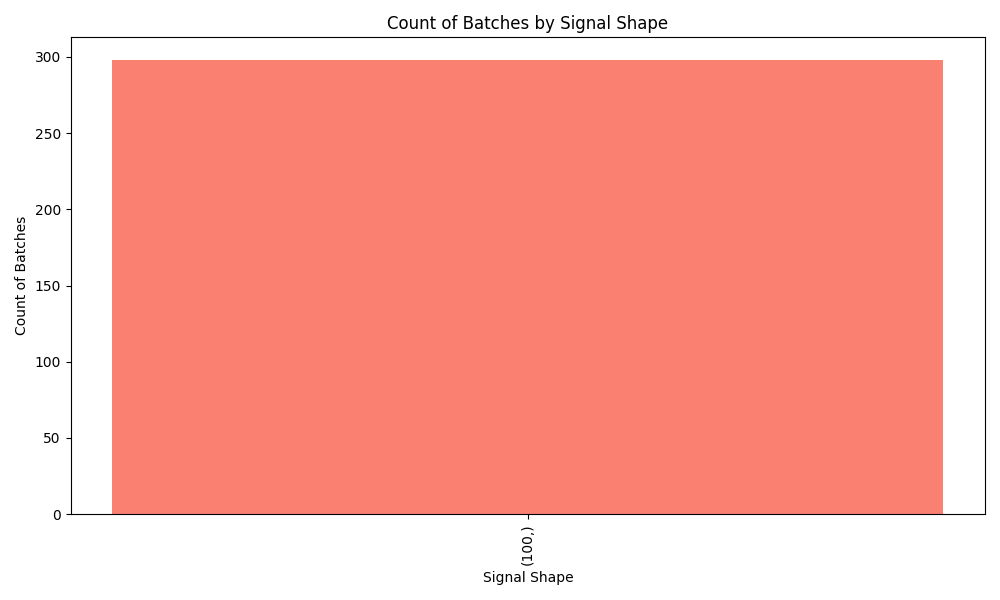
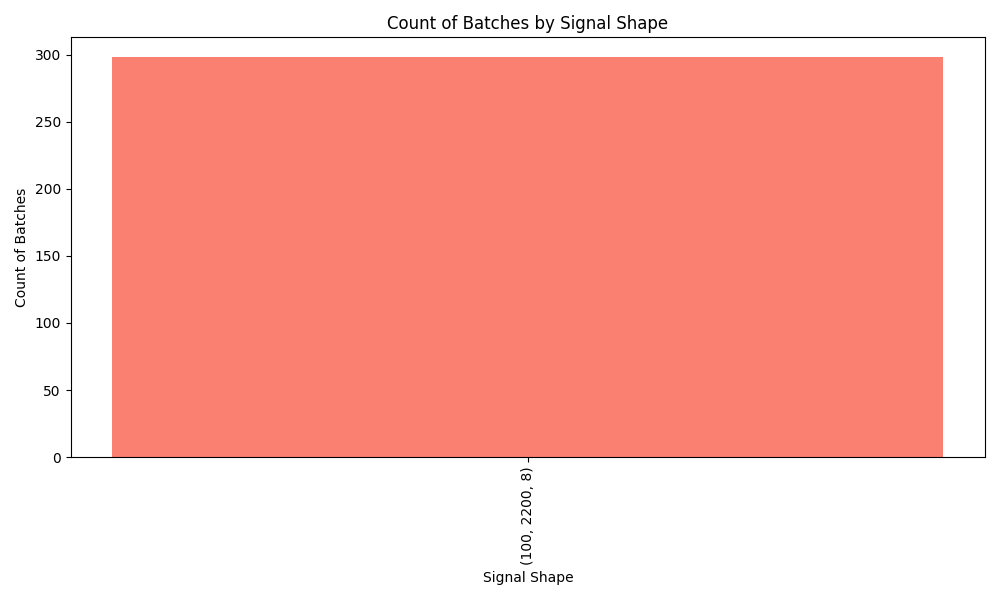
take on nn

diff --git a/main.py b/main.py
@@ -1,12 +1,74 @@
-from model import SimpleECGClassifier
-from torch import nn
-from torch import optim
+import torch
+from model import ECGCNN
+from torch import nn, optim
+from dataset import ECGDataset
+from torch.utils.data import DataLoader
 
-num_leads = 12
-signal_length = 5000
-num_classes = 5
-model = SimpleECGClassifier()
+device = "cuda" if torch.cuda.is_available() else "cpu"
+
+# Instance of model, loss function, and optimizer
+model = ECGCNN().to(device)
 
 loss_fn = nn.CrossEntropyLoss()
-optimizer = optim.Adam(params=model.parameters(),
-                       lr=0.001)
+optimizer = optim.Adam(params=model.parameters(), lr=0.001)
+
+# Create dataloader
+loaded_data = torch.load('dataset.pt', weights_only=False)
+
+dataset = ECGDataset(loaded_data['data'], loaded_data['labels'])  # shape -> data(298, 100, 2200, 8), labels(100)
+dataloader = DataLoader(dataset, batch_size=16, shuffle=True)
+dataloader_length = len(dataloader)
+
+# Training loop
+epochs = 300
+for epoch in range(epochs):
+    running_loss = 0.0  # To accumulate loss for each epoch
+    for i, (inputs, labels) in enumerate(dataloader):
+        # Move data to the correct device
+        inputs, labels = inputs.to(device), labels.to(device)
+
+        # Reshape inputs to [batch_size, 8, 2200]
+        inputs = inputs.permute(0, 3, 2, 1).reshape(-1, 8, 2200)
+
+        # Forward pass
+        outputs = model(inputs)
+        print(outputs.shape, labels.shape)
+        loss = loss_fn(outputs, labels.argmax(dim=1))  # Convert one-hot to class indices
+
+        # Backward pass and optimization
+        optimizer.zero_grad()
+        loss.backward()
+        optimizer.step()
+
+        # Accumulate loss
+        running_loss += loss.item()
+
+    # Print average loss for the epoch
+    epoch_loss = running_loss / dataloader_length
+    print(f'Epoch [{epoch+1}/{epochs}], Loss: {epoch_loss:.4f}')
+
+# Evaluation
+model.eval()  # Set the model to evaluation mode
+with torch.inference_mode():
+    correct = 0
+    total = 0
+    for inputs, labels in dataloader:
+        # Move data to the correct device
+        inputs, labels = inputs.to(device), labels.to(device)
+
+        # Reshape inputs to [batch_size, 8, 2200]
+        inputs = inputs.view(-1, 8, 2200)
+
+        # Forward pass
+        outputs = model(inputs)
+        _, predicted = torch.max(outputs.data, 1)
+
+        # Calculate accuracy
+        total += labels.size(0)
+        correct += (predicted == labels.argmax(dim=1)).sum().item()
+
+    print(f'Accuracy of the model on the test images: {100 * correct / total:.2f} %')
+
+# Save trained model
+torch.save(model.state_dict(), "ecg_classifier.pth")
+print("Training complete, model saved!")

diff --git a/processor.py b/processor.py
@@ -1,0 +1,60 @@
+import os
+import numpy as np
+import wfdb
+
+data_path = "./ecg_resources/data"
+label_path = "./ecg_resources/annotations.csv"
+output_path = "./data"
+
+min_length = 2200 # this is length of the shortest timestamp
+batch = []
+
+labels = np.loadtxt(label_path, delimiter=',', skiprows=1, dtype=str)
+trimed_labels = np.delete(labels, [0, 1, 2, 3, -1], axis=1) # keeps only these columns -> ['1dAVb' 'RBBB' 'LBBB' 'SB' 'AF' 'ST']
+casted_labels = trimed_labels.astype(np.float32)
+
+# labels preview
+# [[0. 0. 0. 0. 0. 0.]
+#  [0. 0. 0. 0. 1. 0.]
+#  [1. 0. 0. 0. 0. 0.]
+#  ...
+#  [0. 0. 0. 0. 0. 0.]
+#  [0. 0. 0. 0. 0. 0.]
+#  [0. 0. 0. 0. 0. 0.]]
+
+filename = "batch"
+file_group = 1
+
+os.makedirs(output_path, exist_ok=True)
+
+while file_group <= 39_999:
+    record_name = f"TNMG{file_group}_N1"
+    print(f"Processing record: {record_name}")
+    try:
+        record_signal = wfdb.rdrecord(os.path.join(data_path, record_name)).p_signal
+
+        if record_signal.shape[0] > min_length:
+            trimmed_signal = record_signal[:min_length, :]
+        else:
+            trimmed_signal = record_signal
+
+        batch.append(trimmed_signal)
+
+    except Exception as e:
+        print(f"Can't load file: {record_name}, error: {e}\n")
+        file_group += 1
+        continue
+
+    if len(batch) == 100:
+        numpy_array = np.array(batch, dtype=np.float32)
+        trimmed_labels = casted_labels[:100]
+
+        np.savez(os.path.join(output_path, f"{filename}-{int(file_group / 100)}.npz"),
+                 signals=numpy_array, labels=trimmed_labels)
+
+        print(f"Batch saved as {filename}-{int(file_group / 100)}.npz\n")
+
+        batch = []
+        casted_labels = casted_labels[100:]
+
+    file_group += 1

diff --git a/model.py b/model.py
@@ -1,21 +1,21 @@
-import torch.nn as nn
+from torch import nn
+from torch.nn import functional as F
 
-class SimpleECGClassifier(nn.Module):
-    def __init__(self):
-        super(SimpleECGClassifier, self).__init__()
-        self.conv1 = nn.Conv2d(1, 16, kernel_size=(3, 3), stride=(1, 1), padding=(1, 1))
-        self.conv2 = nn.Conv2d(16, 32, kernel_size=(3, 3), stride=(1, 1), padding=(1, 1))
-        self.fc1 = nn.Linear(32 * 8 * 2200, 128)
-        self.fc2 = nn.Linear(128, 6) # 6 is num of diseases
-        self.pool = nn.MaxPool2d((2, 2))
-        self.relu = nn.ReLU()
-        self.dropout = nn.Dropout(0.5)
+class ECGCNN(nn.Module):
+    def __init__(self, num_classes=6):
+        super(ECGCNN, self).__init__()
+        self.conv1 = nn.Conv2d(in_channels=1600, out_channels=16, kernel_size=(3, 3), stride=(1, 1), padding=(1, 1))
+        self.conv2 = nn.Conv2d(in_channels=16, out_channels=32, kernel_size=(3, 3), stride=(1, 1), padding=(1, 1))
+        self.pool = nn.MaxPool2d(kernel_size=(2, 2), stride=(2, 2))
+        self.fc1 = nn.Linear(35200, 128)  # Adjust based on your input size
+        self.fc2 = nn.Linear(128, num_classes)
 
     def forward(self, x):
-        x = self.relu(self.pool(self.conv1(x)))
-        x = self.relu(self.pool(self.conv2(x)))
-        x = x.view(x.size(0), -1)
-        x = self.relu(self.fc1(x))
-        x = self.dropout(x)
+        x = self.pool(F.relu(self.conv1(x)))
+        x = self.pool(F.relu(self.conv2(x)))
+        print(x.shape)
+        #x = x.view(-1, 32 * 550 * 50)  # Flatten the tensor
+        x = x.flatten()
+        x = F.relu(self.fc1(x))
         x = self.fc2(x)
         return x

diff --git a/graphs/visualization.py b/graphs/visualization.py
@@ -2,7 +2,7 @@ import os
 import numpy as np
 import matplotlib.pyplot as plt
 
-data_path = "./data"
+data_path = "../data"
 
 disease_count = {
     '1dAVb': 0,
@@ -16,6 +16,15 @@ disease_count = {
 shape_count = {}
 
 batch_files = os.listdir(data_path)
+
+# Get minimum length of the matrix group from each file
+# for file in os.listdir(input_path):
+#     record = np.load(os.path.join(input_path, file), allow_pickle=True)
+#     record_signals = record["signals"]
+#     for i in range(record_signals.shape[0]):
+#         matrix_length = record_signals[i].shape[0]
+#         min_length = min(matrix_length, min_length)
+# print(f"Minimum length of second dimension: {min_length}")
 
 for batch_file in batch_files:
     batch_data = np.load(os.path.join(data_path, batch_file), allow_pickle=True)
@@ -51,7 +60,7 @@ ax1.set_ylabel('Count of Signals')
 ax1.set_title('Count of Signals for Each Disease')
 plt.xticks(rotation=45)
 plt.tight_layout()
-plt.savefig("./graphs/disease-statistics.png")
+plt.savefig("./disease-statistics.png")
 plt.show()
 
 fig, ax2 = plt.subplots(figsize=(10, 6))
@@ -63,5 +72,5 @@ ax2.set_ylabel('Count of Batches')
 ax2.set_title('Count of Batches by Signal Shape')
 plt.xticks(rotation=90)
 plt.tight_layout()
-plt.savefig("./graphs/batch-dimensions.png")
+plt.savefig("./batch-dimensions.png")
 plt.show()

diff --git a/test.py b/test.py
@@ -1,13 +1,20 @@
-import os
+import torch
 import numpy as np
 
-# label_path = "./data/ecg_resources/annotations.csv"
-# labels = np.loadtxt(label_path, delimiter=',', skiprows=1, dtype=str)
-#
-# for row in labels:
-#     print(row)
+# Trim and cast labels into wanted format
+# labels = np.loadtxt("./ecg_resources/annotations.csv", delimiter=',', skiprows=1, dtype=str)
+# trimed_labels = np.delete(labels, [0, 1, 2, 3, -1], axis=1)
+# casted_labels = trimed_labels.astype(np.float32)
+# print(casted_labels)
 
-rec = np.load("./data/batch-399.npz", allow_pickle=True)
-print(rec["labels"][1])
-print(rec["signals"].shape)
-print(rec["signals"][0][199][7])
+# Check if the saved .npz format is valid
+# sample = np.load("./data/batch-99.npz")
+# print(sample.files) # files -> ['signals', 'labels']
+# print(sample["signals"].shape, sample["labels"].shape) # shapes -> signals(100, 2200, 8), labels(100, 6)
+# print(sample["signals"].dtype, sample["labels"].dtype) # dtypes -> float32, float32
+
+# Check if PyTorch dataset is valid
+# data = torch.load('dataset.pt', weights_only=False)
+# print(data["data"].shape, data["labels"].shape) # shapes -> data(298, 100, 2200, 8), labels(298, 100, 6)
+# print(data["data"][0, :5], data["labels"][0, :5]) # fine
+

diff --git a/dataset.py b/dataset.py
@@ -1,0 +1,24 @@
+import torch
+from torch.utils.data import Dataset
+
+class ECGDataset(Dataset):
+    def __init__(self, data, labels):
+        # Convert the data and labels to torch tensors
+        self.data = torch.tensor(data, dtype=torch.float32)
+        self.labels = torch.tensor(labels, dtype=torch.long)  # Assume labels are integers (class indices)
+
+    def __len__(self):
+        return len(self.data)
+
+    def __getitem__(self, index):
+        x = self.data[index]  # Shape: (100, 2200, 8)
+        y = self.labels[index]  # Shape: (100, 6) - multi-class labels for each sequence
+
+        # Convert (100, 2200, 8) → (100, 8, 2200) to match input shape (channels, timesteps)
+        x = x.permute(0, 2, 1)  # (100, 2200, 8) → (100, 8, 2200)
+
+        # For multi-class classification, you need one label per sample, not one for each sequence
+        # We will take the class label of the first sequence (or average it, depending on your task)
+        y = y.argmax(dim=1)  # Assuming y is a one-hot vector, take the max index as the class
+
+        return x, y

diff --git a/dataloader.py b/dataloader.py
@@ -1,0 +1,24 @@
+import os
+import numpy as np
+import torch
+
+input_path = "./data"
+
+data = []
+labels = []
+
+for i, file in enumerate(os.listdir(input_path)):
+    print(f"{i}. processing file: {file}")
+    file_path = os.path.join(input_path, file)
+
+    record = np.load(file_path)
+    signals = record["signals"]
+    label = record["labels"]
+
+    data.append(signals)
+    labels.append(label)
+
+data = np.array(data)
+labels = np.array(labels)
+
+torch.save({'data': data, 'labels': labels}, 'dataset.pt')
